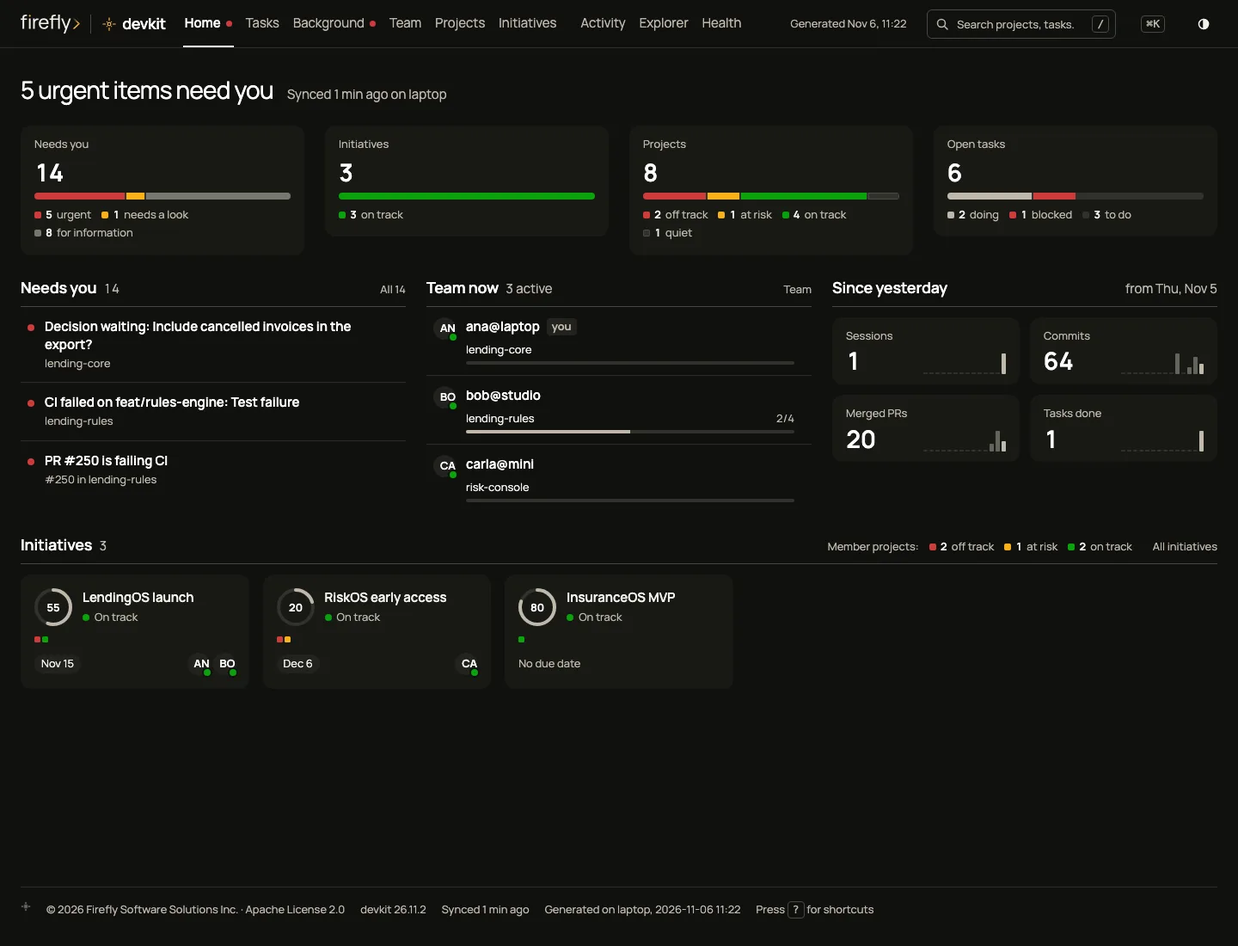
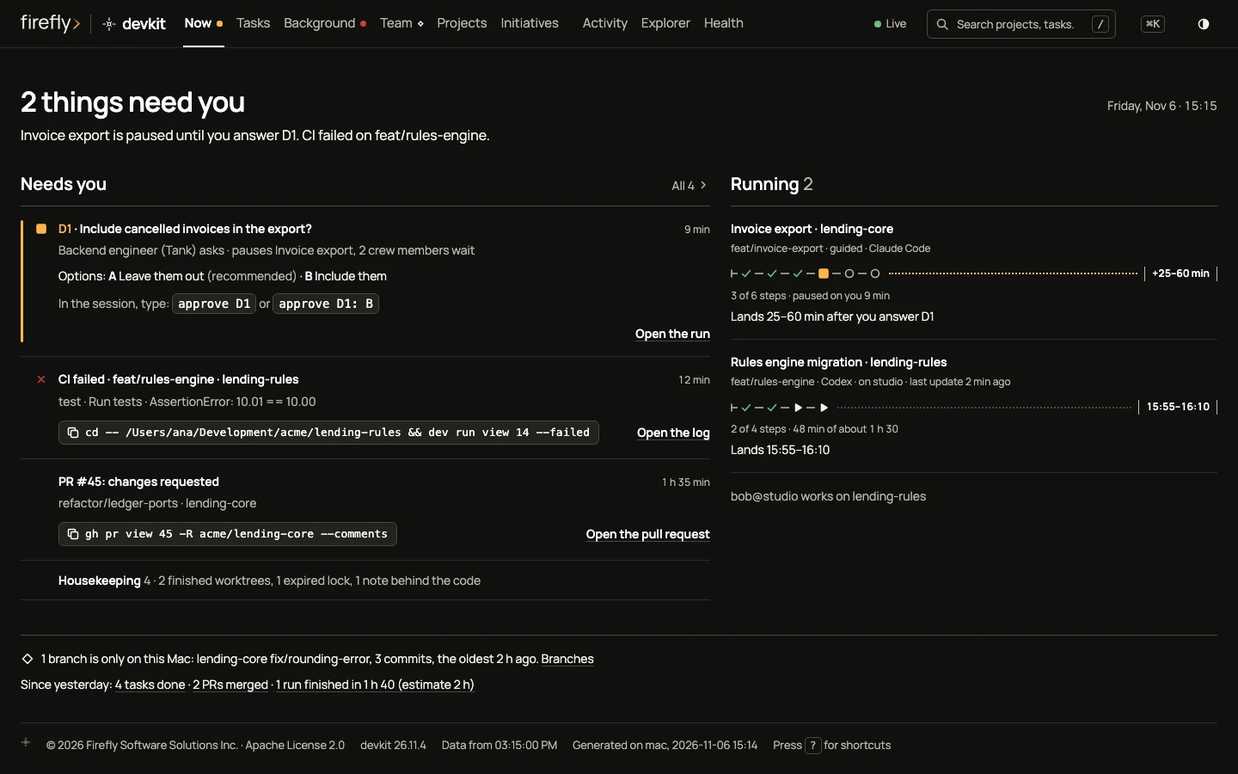
docs(dashboard): describe Now, the view the dashboard opens on
The redesign replaced Home with Now, but docs/dashboard.md still described Home's stat tiles, Team now and initiative cards, its screenshots showed Home, and 26.11.4 had no CHANGELOG entry for it.

docs/dashboard.md gets a Now section (the answer and its rules, the Needs you queue, the runs with their landing strip and landing lines), Now's states under Honest states, the ranked queue in The action list, g n and g o, the #/now, all and kind route keys with the #/overview and #/actions redirects, dashnow.py and lib/devkit/web/ under Where it comes from, and the two token layers under Design. The three Home screenshots keep their names and now show Now from the neutral fixture: 1440 px light and dark, and 390 px dark at a true 390 px viewport. README's alt text for the same picture describes Now. CHANGELOG adds The dashboard opens on Now under Added.

Verified: dev docs check: markdownlint 0 issues, all 679 local links and anchors resolve, Vale 0 errors (80 warnings, none new except quoted UI text); screenshots checked by eye in light, dark and at 390 px

diff --git a/docs/dashboard.md b/docs/dashboard.md
@@ -2,10 +2,11 @@
 
 `dev dashboard` opens devkit's command center: a local, read-only app on your Mac that updates by itself while it is
 open. It is visual first: a number or a shape stands in for a sentence, and the detail opens in a drawer on the right.
-**Home** answers "is anything wrong, and where do things stand?" in one screen. **Tasks** holds the work items,
-**Background** the agent runs, CI results, and scheduled jobs, and **Team** the people and the crew. From any of them
-you open an item in a drawer, or drill into an **initiative** or a **project** page and down to a single **task**.
-Every item comes with the one command that moves it forward.
+It opens on **Now**, which answers "does anything need you, and when does the running work land?" in one screen.
+**Tasks** holds the work items, **Background** the agent runs, CI results, and scheduled jobs, and **Team** the people
+and the crew. From any of them you open an item in a drawer, or drill into an **initiative** or a **project** page and
+down to a single **task**. Every item says how to move it forward: a command to copy, or the words to type in the
+agent's session.
 
 ## Open it
 
@@ -37,18 +38,20 @@ The server's log is `~/.local/state/devkit/logs/dashboard.log`.
 
 <picture>
   <source media="(prefers-color-scheme: dark)" srcset="images/dashboard/home-1440-dark.webp">
-  <img src="images/dashboard/home-1440-light.webp" alt="The dashboard's Home view: the title says 5 urgent items need you; four stat tiles with a segmented bar each (what needs you by urgency, initiatives on track, projects by off track, at risk, on track, and quiet, open tasks by doing, blocked, and to do); the Needs you list with a decision waiting, a failed CI run, and a PR failing CI; Team now with a progress bar per running session; four Since yesterday counters with sparklines; and three initiative cards, each with a progress ring, its member projects as colored squares, and its due date." width="100%">
+  <img src="images/dashboard/home-1440-light.webp" alt="The dashboard's Now view: the headline says 2 things need you, and the line under it says Invoice export is paused until you answer D1 and CI failed on feat/rules-engine. On the left, the Needs you queue: the decision D1, Include cancelled invoices in the export?, with an amber bar, who asks, the two options with the recommended one, the words to type, and Open the run; a failed CI run with its first error and the command to copy; a pull request with changes requested; and one Housekeeping row. On the right, two runs: Invoice export with its landing strip, paused on you and landing 25 to 60 minutes after you answer D1, and Rules engine migration on another Mac, landing 15:55 to 16:10. Below, a line says one branch is only on this Mac, and the Since yesterday line lists 4 tasks done, 2 PRs merged, and 1 run finished." width="100%">
 </picture>
 
 ## Views
 
 The views are in the order you need them during a day of work, then the reference views. When the window is too
-narrow for all of them, the last ones move into a **More** menu, so the navigation never scrolls sideways. A red or
-amber dot on a view says it holds something that needs you.
+narrow for all of them, the last ones move into a **More** menu, so the navigation never scrolls sideways. A dot after
+a view's name says it holds something for you: amber on **Now** when something waits for your answer, red when
+something is broken, and a hollow diamond when something needs a look. Its tooltip says what, for example _Now, 2
+items need you_.
 
 | View | Keys | The job it does |
 | --- | --- | --- |
-| **Home** | `g o` | _Is anything wrong, and where do things stand?_ The title answers it, for example _5 urgent items need you_ or _Nothing needs you_. **Four stat tiles** follow, each a number and one segmented bar with its legend: what needs you (urgent, needs a look, for information), initiatives and projects (on track, at risk, off track, quiet, no data, done), and open tasks (doing, blocked, to do). Each tile links to its list. **Needs you** shows the top three groups, starting with decisions that wait for you and CI that failed in the last 24 hours. **Team now** shows each person with a thin progress bar per running session, and crew members by role. **Since yesterday** is four counters (sessions, commits, merged PRs, tasks done), each with its 14-day sparkline. Below, one card per **initiative**: a progress ring, a waffle of its member projects (one square each, colored by state), a due-date pill, and the people on it. At 1440 × 900 the whole summary fits without scrolling |
+| **Now** | `g n` · `g o` | _Does anything need you, and when does the running work land?_ One sentence answers it. Below it are the **Needs you** queue in the server's order, the live runs with their landing times, and two closing lines: the branches that exist only on this Mac, and what finished since yesterday (see [Now](#now)). **All N** lists every row (`#/now?all=1`) |
 | **Tasks** | `g t` | Every work item across projects and initiatives, as a board (Now · Next · Later · Closed) or grouped by scope. Filter by status, scope, and who claimed it (anyone, or only you). Every card shows who holds the lock and opens the task's drawer |
 | **Background** | `g b` | _Is anything running, failing, or waiting for you, and when is it done?_ Agent runs, CI results, and scheduled jobs on this Mac (see [Background work](#background-work)) |
 | **Team** | `g m` | _Who is doing what right now?_ The tabs **People**, **Crew** (`g c`), and **Who does what** (see [Team and the crew](#team-and-the-crew)) |
@@ -57,6 +60,60 @@ amber dot on a view says it holds something that needs you.
 | **Activity** | `g a` | A calendar heatmap of the last 26 weeks (one square per day, darker for more commits, sessions, and finished tasks; the day's numbers on hover, and a **Table** view), three counters with 14-day sparklines, the timeline (live sessions, session logs, completed and blocked tasks, merged PRs, operations, canary misses over 7 or 30 days), and the most active projects. Commits are kept for 30 days |
 | **Explorer** | `g e` | The handoff repository as a tree, with a safe Markdown viewer and find-in-file (`↵` / `⇧↵` step through matches). Up to 2 MB is embedded, newest first |
 | **Health** | `g h` | Status tiles come first, for Claude Code and Codex (signed in, quota used), guard decisions, the share of replies that started with the status block, configuration drift, and worktrees with disk use. Then the details: the **Setup issues** from the last sync, **Contradictions** (see [Honest states](#honest-states)), providers, guard decisions grouped by rule, the instruction canary per agent, drift, every worktree, disk usage per project, and **Time** (see [Live runs and time](#live-runs-and-time)) |
+
+## Now
+
+_Does anything need you, and when does the running work land?_ Now answers in one look and lets you act in one click.
+The server ranks, words, and times everything on it (`lib/devkit/dashnow.py`); the page only draws it, in the order it
+receives, and never sorts it again. From top to bottom:
+
+| Part | What it shows |
+| --- | --- |
+| **The answer** | One sentence, with one line under it that names the cause, and today's date and time on the right (table below) |
+| **Needs you** | Up to five rows in the server's order, then **All N** for the rest. A row that waits for your answer has an amber bar and glyph; a broken one has a red ✗. Each row shows its age, its details, the command to copy when there is one, and one link (**Open the run**, **Open the log**, **Open the job**, **Open the pull request**, or **Branches**). Housekeeping is one quiet row with its count. [The action list](#the-action-list) says what enters and in what order |
+| **Running** | One block per run that is running, blocked, waiting for you, or stopped reporting, at most four, then _N more runs_ (Background work). Each block shows the goal and project; the branch, mode, and agent; the landing strip; how far it is (_3 of 6 steps · paused on you 9 min_, or _2 of 4 steps · 48 min of about 1 h 30_); and the landing line. A run on this Mac opens its drawer. A run on another Mac says where it runs and when it last reported (_on studio · last update 2 min ago_). Runs that finished in the last hour take one line each (_Docs refresh · finished 14:20 in 35 min_). Under the runs, the people on other machines and their projects (_bob@studio works on lending-rules_) |
+| **Safety** | One line: the branches that exist only on this Mac, with the age of the oldest commit and a **Branches** link, or _Every branch is on the remote._ |
+| **Since yesterday** | Tasks done, PRs merged, and runs finished, each a link, or _nothing finished_. It is open on the day's first visit and before noon; at other times it folds into a disclosure |
+
+The first rule that matches writes the answer:
+
+| When | Headline | The line under it |
+| --- | --- | --- |
+| A decision or a grant waits for you | _2 things need you_, or _1 decision waits for you_ (or _1 grant waits for you_) when it is the only item | The first two rows, a clause each, such as _Invoice export is paused until you answer D1. CI failed on feat/rules-engine._ |
+| CI failed, a scheduled job failed, or a run is blocked or stopped reporting | _CI failed on feat/rules-engine_, _The doctor job failed_, or _Invoice export stopped reporting_ | The first error, or the reason |
+| Nothing else but a branch kept on this Mac for more than 4 hours, or an agent that is not signed in | _Nothing urgent. 2 things to look at._ | The first item |
+| Nothing needs you, and runs are going | _Nothing needs you_ | _2 runs are going. The first lands about 15:40._ |
+| Nothing needs you, and nothing runs | _Nothing needs you_ | _Nothing is running. Next in lending-core: Document the export endpoint._ The two columns become one **Next up** block (see [Honest states](#honest-states)) |
+| No projects yet | _Welcome to devkit_ | _Nothing is tracked yet. Clone a project with `dev clone <owner/repo>`, or start one with `dev new <name>`._ |
+
+The headline counts only the first three orders of [the action list](#the-action-list): your pull requests, blocked
+or overdue work, and housekeeping show in the queue but never make the headline.
+
+### The landing strip
+
+Each run has a landing strip: its plan's steps in order, at most eight (the rest show as _+N done_), on one line from
+the run's start. Each step is a glyph: `✓` done, `▶` running, `■` waiting for your answer (amber), `✗` blocked, `◇`
+ended without evidence, and `○` to do. A dotted run-out leads to the landing bracket, which holds a clock range
+(_15:55–16:10_) or, while the run waits for your answer, the time it needs after it (_+25–60 min_); the run-out is
+amber then. The line under the strip says when the run lands:
+
+| The run | Landing line |
+| --- | --- |
+| Running, with estimates | _Lands 15:55–16:10_, or _Lands about 15:40_ when both ends round to the same time |
+| Waiting for your answer | _Lands 25–60 min after you answer D1_. The time it waits for you does not count |
+| Over 1.5 times its estimate | _Lands 16:20–16:45, later than planned (estimate 2 h, now about 3 h)._ |
+| Blocked on a problem | _Blocked:_ and the reason, then _No landing time until it moves._ |
+| Stopped reporting: no sign of life for 30 minutes | _No update for 18 min. The landing time is unknown._ |
+| No estimate | _48 min so far. No estimate, so no landing time._ |
+
+The range is the one `dev progress` computes (`progress.eta_range`), rounded to 5 minutes, with one rule added: a step
+paused on your decision counts as running, so the time it waits for you adds nothing. A run's landing is reused for up
+to 60 seconds while its steps and its last update stay the same. A run on another Mac gets its landing from that
+Mac's last presence update.
+
+On a phone the queue comes before the runs:
+
+<img src="images/dashboard/home-390-dark.webp" alt="The Now view on a 390-pixel-wide phone screen in the dark theme: the headline 2 things need you; the Needs you queue with the decision D1 and its amber bar, the failed CI run, the pull request with changes requested, and the Housekeeping row; then the two runs with their landing strips; then the line about the branch only on this Mac and the Since yesterday line." width="320">
 
 ## Background work
 
@@ -217,14 +274,14 @@ link opens it again; a link inside a drawer to another record replaces its conte
 | Kind | Opens from | Shows |
 | --- | --- | --- |
 | `task` (`?task=<id>`) | Every task row and card | The connected task (below) |
-| `run:<id>` | Background work, Team now, session bars | The whole run (see [Background work](#background-work)) |
+| `run:<id>` | A run on Now, Background work, session bars | The whole run (see [Background work](#background-work)) |
 | `ci:<repo>@<branch>` | Background work's CI section | The failed jobs, the whole first error, and the next action |
 | `job:<name>` | Background work's jobs table | The job's schedule, recent runs, and log |
 | `member:<id>` | The Crew tab | A crew member: role, what they do, the kinds of work they do and approve, and what they work on now |
 | `initiative:<slug>` · `project:<owner/repo>` | Cards, tiles, and rows | The visuals and key facts; **Open full page** |
 | `person:<user@host>` · `session:<user@host>~<n>` | Team | Sessions, claimed tasks with lock countdown rings; a session's goal and progress |
-| `action:<key>` · `actions:<kind>` | Needs you | The problem, where it is, and the command |
-| `since:<sessions\|commits\|merged\|done>` | Since yesterday counters | The full list |
+| `action:<key>` · `actions:<kind>` | Links from earlier versions, and the items of an `actions` drawer | The problem, where it is, and the command |
+| `since:<sessions\|commits\|merged\|done>` | Now's Since yesterday line (tasks done, PRs merged) | The full list |
 
 **The connected task** first answers three questions, **Who has it** (who holds the lock, with which agent, since
 when, and the run that works on it), **What blocks it**, and **What's next**, with the command to copy. Then **Connected to**
@@ -244,8 +301,9 @@ a drawer shows what the copy holds and says what needs the live dashboard.
 
 ## Live runs and time
 
-Agents report progress on long runs (`dev progress start|step|block|done`). Summary views draw each running session
-as a thin bar (steps done of the total; red when blocked). The run's drawer and the project page show:
+Agents report progress on long runs (`dev progress start|step|block|done`). Now draws each run as a landing strip
+with its landing time (see [The landing strip](#the-landing-strip)); Team and the project pages draw each running
+session as a thin bar (steps done of the total; red when blocked). The run's drawer and the project page show:
 
 - the run's goal, a thin progress bar, steps done of the total, elapsed time against the plan's current total (the
   time so far plus the time left, so the two agree; a run without a plan uses its estimate, the calibrated one when
@@ -308,16 +366,44 @@ Every number and label on the page can be trusted at a glance.
   done with open tasks, a saved status from another branch, a step running before the step it waits for, two lanes of
   one member on one step, a run that stopped reporting, a run done with steps left, a claim held without a live
   session, and a task done with unticked **Done when** boxes. Health lists them all.
+- **Now says what it knows, and how old it is.** Each of its areas (the queue, the runs, safety, and since
+  yesterday) is built on its own, so one that fails never hides the others.
+
+| State | What Now shows |
+| --- | --- |
+| Loading | The shapes of the sentence, three rows, and two runs, at their real height, with no spinner. Screen readers hear _Loading what needs you._ |
+| Nothing waits for you, runs are going | _Nothing waits for you._ where the queue would be; the runs as usual |
+| Nothing needs you, nothing runs | The two columns become one **Next up** block: the top Now task of up to three projects, the most recently active first, each with `dev task -p <project> start <id>` to copy |
+| A new install, with no projects | _Welcome to devkit_ and **Get started**: an agent signed in, your first project, and the first sync, each marked done or to do, with its command when one helps |
+| An area failed | That area says so in its place, with a red ✗ and the reason, such as _Runs could not be read_; the other areas still show |
+| A source is degraded | The queue quotes the error and says which results it shows, ending with _Shown: the results from 14:52._ |
+| An area is stale | A tag after its title, such as _◇ as of 14:52 · 23 min old_, when a source behind it is older than twice its refresh: 2 minutes for the registry, 30 minutes for pull requests |
+| The static copy | The line under the sentence ends with _a copy from 15:03; it does not update._ |
+| Many rows or runs | Five rows, then **All N**; four runs, then _N more runs_ |
 
 ## The action list
 
-It is ordered by what blocks you most. Home shows the top three groups (items of the same kind are one row) and
-opens each in a drawer, where the command is the amber button. **Needs you** (`#/actions`) lists them all. It has
-a filter per kind and a copy icon per item.
+Now's **Needs you** queue holds everything that waits for you, ranked once by the server: what blocks you most comes
+first, and within one order, the row that holds up the most crew members, then the oldest. Items of one kind in one
+place are one row. Now shows the first five; **All N** (`#/now?all=1`) lists every row in the same order.
+
+| Order | What enters | The row | To act |
+| --- | --- | --- | --- |
+| 1 | A decision waits for you · an irreversible action waits for your grant | `D1 · <question>`, who asks (role first), what it pauses and how many crew members wait, the options with the recommended one, and the words to type, such as `approve D1` or `approve D1: B` · _Merge PR 142 waits for your grant_, tagged _Irreversible_, with `grant merge 142` | **Open the run** at the decision, then type the words in the agent's session. Nothing on the page copies them: your consent is typed, never pasted |
+| 2 | A run is blocked, or stopped reporting (no sign of life for 30 minutes) · CI failed on a branch in the last 24 hours | The reason, or who sent no update since when · the job, the step, and the first error | **Open the run** · `cd -- <project path> && dev run view <id> --failed` and **Open the log** |
+| 3 | A scheduled job failed · a branch has been only on this Mac for more than 4 hours · an agent is not signed in | The first error line · why it is not backed up · what to run | `dev jobs show <name>` · `cd -- <checkout> && dev backup -- <branch>` and **Branches** · `claude` or `codex login` |
+| 4 | Your pull requests: failing CI, changes requested, merge conflicts, waiting for review; a review requested of you · a blocked project, initiative, or task; overdue work | The pull request or the item, with its branch and project | The command for its kind (below) |
+| 5 | Housekeeping: finished worktrees, expired locks, two sessions on one branch, idle work, notes behind the code, configuration drift, repositories outside the layout | One row, such as _Housekeeping 4 · 2 finished worktrees, 1 expired lock, 1 note behind the code_ | Opens the housekeeping list (`#/now?all=1&kind=housekeeping`) |
+
+A pull request that fails CI on a branch that already has a CI row is listed once. A branch only on this Mac for less
+than 4 hours shows only in the safety line under the runs.
+
+Each kind of item has its command. The housekeeping list, the full list of one kind (`#/now?all=1&kind=CI`, which is
+where links to `#/actions?kind=…` go), and the command palette list the items one by one, each with a copy icon.
 
 | Order | Item | Command |
 | --- | --- | --- |
-| 0 | A decision waits for you (urgent) · CI failed on a branch in the last 24 hours (urgent) · a scheduled job failed on its last run · a setup issue from the last sync | Open the run and answer in its session · `dev run view <id> --failed` · `dev jobs show <name>` · `dev doctor` |
+| 0 | A decision waits for you · CI failed on a branch in the last 24 hours · a scheduled job failed on its last run · a setup issue from the last sync | Open the run and type your answer in its session · `dev run view <id> --failed` · `dev jobs show <name>` · `dev doctor` |
 | 1 | One of **your** PRs is failing CI | `gh pr checks <n> -R <owner/repo> --watch` |
 | 2 | Changes requested on your PR | `gh pr view <n> -R <repo> --comments` |
 | 3 | Your PR has merge conflicts | `cd <its worktree> && git fetch origin && git rebase origin/<default>` (or `dcd … && gh pr checkout …`) |
@@ -364,7 +450,8 @@ a filter per kind and a copy icon per item.
 | --- | --- |
 | `/` | Search |
 | `⌘K` · `Ctrl K` | Command palette |
-| `g` then `o` `t` `b` `m` | Home · Tasks · Background work · Team |
+| `g` then `n` or `o` | Now |
+| `g` then `t` `b` `m` | Tasks · Background work · Team |
 | `g` then `c` | Team: the Crew tab |
 | `g` then `p` `i` | Projects · Initiatives |
 | `g` then `a` `e` `h` | Activity · Explorer · Health |
@@ -379,12 +466,14 @@ a filter per kind and a copy icon per item.
 
 Every page, tab, open drawer, and filter lives in the URL, so any view can be bookmarked, shared with someone who has
 the same handoff repo, or reached with the back button. The format is `#/<view>[/<id>][?<key>=<value>&…]`, with
-defaults omitted. Ids keep their slashes and dots (`#/projects/gitlab.com/firefly/platform/api`). Links from earlier
-versions (`#/portfolio`, `?p=<project>`, `?i=<initiative>`) still resolve.
+defaults omitted. Ids keep their slashes and dots (`#/projects/gitlab.com/firefly/platform/api`). An empty or unknown
+view opens Now. Links from earlier versions still resolve: `#/overview` opens Now, `#/actions` opens Now's full list
+(`#/now?all=1`), and `#/portfolio`, `?p=<project>`, and `?i=<initiative>` open their pages.
 
 | Key | Values | Example |
 | --- | --- | --- |
-| view (path) | `overview` `tasks` `background` `team` `projects` `initiatives` `activity` `explorer` `health` `search` `actions` | `#/background` |
+| view (path) | `now` `tasks` `background` `team` `projects` `initiatives` `activity` `explorer` `health` `search` | `#/background` |
+| `all` | `1` opens the full **Needs you** list of Now, every row in the server's order | `#/now?all=1` |
 | id (path) | an initiative slug · a project id | `#/initiatives/lending` · `#/projects/acme/api` |
 | `tab` | initiative: `projects` `tasks` `plans` `sessions` `docs` · project: `tasks` `prs` `worktrees` `plans` `sessions` `note` · team: `crew` `raci` | `#/projects/acme/api?tab=prs` |
 | `task` | a task id: opens the task's drawer | `#/projects/acme/api?tab=tasks&task=T-fwk6cesh07u` |
@@ -398,7 +487,7 @@ versions (`#/portfolio`, `?p=<project>`, `?i=<initiative>`) still resolve.
 | `sort` `group` `layout` `dense` | Projects: `attention` `activity` `priority` `tasks` `name` `size` · `none` `initiative` `owner` `status` `priority` · `cards` (tiles, the default) `table` · `1` | `#/projects?layout=table` |
 | `ist` `psort` `ilayout` | Initiatives: status · `priority` `due` `progress` `activity` · `cards` (the default) `table` | `#/initiatives?ilayout=table` |
 | `tp` `who` `tmode` | Tasks: scope · claimed by (`me` or `user@host`) · `board` `list` | `#/tasks?who=me&tst=doing` |
-| `kind` | Needs-you kind filter | `#/actions?kind=CI` |
+| `kind` | With `all`: `housekeeping`, or a kind of [the action list](#the-action-list) (`CI`, `Review`, `Conflicts`, …) | `#/now?all=1&kind=housekeeping` |
 | `f` · `fq` | Explorer file · find-in-file text | `#/explorer?f=initiatives/lending/README.md` |
 | `range` | `7` or `30` (Activity) | `#/activity?range=30` |
 | `types` | search result types | `#/search?q=api&types=initiative,task` |
@@ -412,13 +501,21 @@ versions (`#/portfolio`, `?p=<project>`, `?i=<initiative>`) still resolve.
 | Refresh | the live page updates in place; a static copy reloads every 2 minutes while visible (not while a drawer is open), keeping its view, filters, and scroll position |
 | Data | The registry (projects, git state, worktrees, PRs, initiatives, live sessions with progress, providers, drift). From the handoff repo: **work items** (`items/<scope>/<id>.md`, with lock and changelog), **presence** (`presence/<user>@<host>.json`), **session logs** (`sessions/<scope>/<YYYY-MM>.md`), **versioned plans** (`plans/<scope>/*.md`), notes, and initiative READMEs. Also the PR cache, the instruction canary, guard decisions, the operations log, **timing records**, and **active runs** |
 
-The decisions are computed in Python (`lib/devkit/dashboard.py`) and unit-tested (`tests/test_dashboard.py`):
+The decisions are computed in Python and unit-tested:
 
-- action priority and commands, project health, _since yesterday_, guard rule grouping, task numbering;
-- lock state, collisions, people, initiative-linked items and KPIs;
-- session-log and status-line parsing, plan status, timing summaries, and credential masking.
+- in `lib/devkit/dashboard.py` (`tests/test_dashboard.py`): action priority and commands, project health, _since
+  yesterday_, guard rule grouping, task numbering; lock state, collisions, people, initiative-linked items and KPIs;
+  session-log and status-line parsing, plan status, timing summaries, and credential masking;
+- in `lib/devkit/dashnow.py` (`tests/test_dashnow.py`): the five areas of Now, which the snapshot carries as `attention`
+  (the ranked queue and its sentence), `runs` (where each run waits and when it lands), `safety`, `since`, and
+  `as_of` (when each slow source was last read). Every copied command quotes the values it names, so a branch name
+  pastes as one word.
 
-The page only renders them.
+The page only renders them; `tests/test_dashboard_now.py` checks that Now draws them as given, in headless Chromium.
+Its code lives in `lib/devkit/web/`: `page.html`, the two themes (`theme-light.css`, `theme-dark.css`), `base.css`,
+`app.js`, and `boot.js`, with one script and one style sheet per redesigned section in `web/sections/` (`now.js`,
+`now.css`). `dashboard.py` joins them into one inline script and one inline style sheet, so the live page and the
+static copy stay one self-contained file.
 
 ## Design
 
@@ -427,18 +524,25 @@ a number or a shape stands in for a sentence, text is a label, and the explanati
 
 - **Identity.** The official Firefly logo (the paper version on dark, the charcoal one on light) next to the devkit
   spark; charcoal and paper surfaces; Manrope.
-- **Amber**, the firefly's light, appears once per screen at most: on the button for the most important next action.
-  Progress rings, bars and sparklines are neutral (ink on light, stone on dark; today in the darker step).
-- **Data colors.** Status uses one fixed palette in both themes: green `#0ca30c` on track, yellow `#fab219` at risk,
-  red `#d03b3b` off track, grey for done. The set was checked with a colorblind-safety validator (adjacent pairs pass
-  for the common color-vision deficiencies) and always comes with a legend, a label or a tooltip, never color alone.
-  The heatmap uses one warm-grey ramp, light to dark. Text is never in a data color.
+- **Tokens, in two layers.** `lib/devkit/web/theme-light.css` and `theme-dark.css` hold Firefly's primitives
+  (`--ff-*`), then the semantic tokens the components read (`--surface-*`, `--ink*`, `--you*`, `--alert*`, `--ok`,
+  `--focus`, the fonts). Only these two files hold raw colors and font names, so a different brand changes them and
+  no component.
+- **Color is spent on exceptions.** Amber, the firefly's light, means your move and nothing else: a Now row that waits
+  for your answer (its bar and glyph), the step and run-out of a run that waits for you, the dot on **Now**, and the
+  primary button. Red means broken: failed CI, a failed job, a blocked run, off track. Green is a passing check or on
+  track (`#2f7d3f` on light, `#6fbf7f` on dark), and done is grey. Everything healthy is ink. At risk is a hollow
+  diamond in ink with its word, never a color alone. Text selection, search highlights, and the row flash are stone.
+  Progress rings, bars, and sparklines are neutral (ink on light, stone on dark; today in the darker step), and the
+  heatmap uses one warm-grey ramp, light to dark. Every state comes with a legend, a label, or a tooltip, and a test
+  checks the contrast of 38 text and glyph pairs in both themes.
 - **Visuals.** Inline SVG only, no chart library: progress rings with the number inside, thin segmented bars with a
   legend, member-project waffles, 14-day sparklines, CI strips, a calendar heatmap, lock countdown rings, and due-date
   pills. Every visual has an accessible name and a tooltip with the exact value on hover, and on focus where it can be
   focused; tables carry the same numbers.
-- **Type.** Four sizes (13, 15, 18, and 28 px) and two weights (400 and 600), sentence case everywhere. Monospace is
-  only for commands and paths.
+- **Type.** The views use four sizes (13, 15, 18, and 28 px). Now has its own scale: 32 px for the sentence, 20 px
+  for section titles, 16 px for the line under the sentence, 14 px for rows, and 12 px for small labels. Two weights
+  (400 and 600), sentence case everywhere. Monospace is only for commands and paths.
 - **Components.** One set used everywhere: stat tiles, cards and tiles on a soft surface (never nested), sections (a
   heading, a count, one quiet link), rows divided by hairlines whose title is a real link, quiet tables, avatars with
   live dots, session bars, underlined tabs, breadcrumbs, quiet buttons, copy icons, command menus, and one drawer.
@@ -446,13 +550,11 @@ a number or a shape stands in for a sentence, text is a label, and the explanati
   say what to do next, and instant rendering with no skeletons.
 - **Layout.** A full-height page: the header, a main area that grows, and the footer at the bottom of the window on
   short pages (after the content on long ones). A 12-column grid up to 1600 px puts panels side by side, and one
-  spacing scale (4, 8, 12, 16, 24, 32, 48, 64 px). Home fits a 1440 × 900 screen without scrolling. Responsive at
+  spacing scale (4, 8, 12, 16, 24, 32, 48, 64 px). Now fits a 1440 × 900 screen without scrolling. Responsive at
   1440, 1280, 1100, 768, and 390 px with no horizontal page scroll; copy icons on rows appear on hover and focus, and
   always on phones and tablets. Keyboard-first with visible focus rings; with reduced motion the drawer fades without
   moving; prints cleanly. The theme toggle (the half-filled circle, or the palette) is remembered, and _Theme: follow
   system_ resets it.
-
-<img src="images/dashboard/home-390-dark.webp" alt="The Home view on a 390-pixel-wide phone screen in the dark theme: the stat tiles sit two by two, then Needs you, Team now with session bars, the Since yesterday counters, and the initiative cards." width="320">
 
 ## Privacy and security
 

diff --git a/README.md b/README.md
@@ -121,7 +121,7 @@ dev doctor                   verify the whole setup                   dev agents
 
 <picture>
   <source media="(prefers-color-scheme: dark)" srcset="docs/images/dashboard/home-1440-dark.webp">
-  <img src="docs/images/dashboard/home-1440-light.webp" alt="The devkit dashboard's Home view: the title says 5 urgent items need you; four stat tiles with a segmented bar each (what needs you, initiatives, projects, and open tasks by state); the Needs you list with a decision waiting, a failed CI run, and a PR failing CI; Team now with a progress bar per running session; four Since yesterday counters with sparklines; and three initiative cards, each with a progress ring and its due date." width="100%">
+  <img src="docs/images/dashboard/home-1440-light.webp" alt="The devkit dashboard's Now view: the headline says 2 things need you, because a run is paused until you answer the decision D1 and CI failed on a branch. On the left, the Needs you queue: the decision with an amber bar, its options and the words to type, the failed CI run with the command to copy, a pull request with changes requested, and one Housekeeping row. On the right, two running runs, each with a landing strip of its steps and when it lands. Below, a line about a branch that is only on this Mac, and what finished since yesterday." width="100%">
 </picture>
 
 All commands are in [docs/commands.md](docs/commands.md).

diff --git a/CHANGELOG.md b/CHANGELOG.md
@@ -75,6 +75,13 @@ and any command it cannot read.
   newest releases, the CHANGELOG headings in between, and whether the checkout and the pinned copy are behind. It is
   read-only, so agents may run it. A daily `update-check` job records the answer at 09:15; the first session of the
   day and `dev status` then name a pending release, without reaching the network themselves.
+- **The dashboard opens on Now, which replaces Home.** One sentence says whether anything needs you, and the line
+  under it names the cause. The **Needs you** queue below it shows up to five rows in the order devkit ranks them,
+  then **All N**; a decision shows its question, who asks, what it pauses, how long it has waited, the options with
+  the recommended one, and the words to type in the session. Each live run has a landing strip of its plan's steps
+  and a landing time that leaves out the time it waits for your answer, and two closing lines name the branches that
+  exist only on this Mac and what finished since yesterday. `g n` and `g o` open Now, and links to `#/overview` and
+  `#/actions` lead there. See [Dashboard › Now](docs/dashboard.md#now).
 
 ### Changed
 
